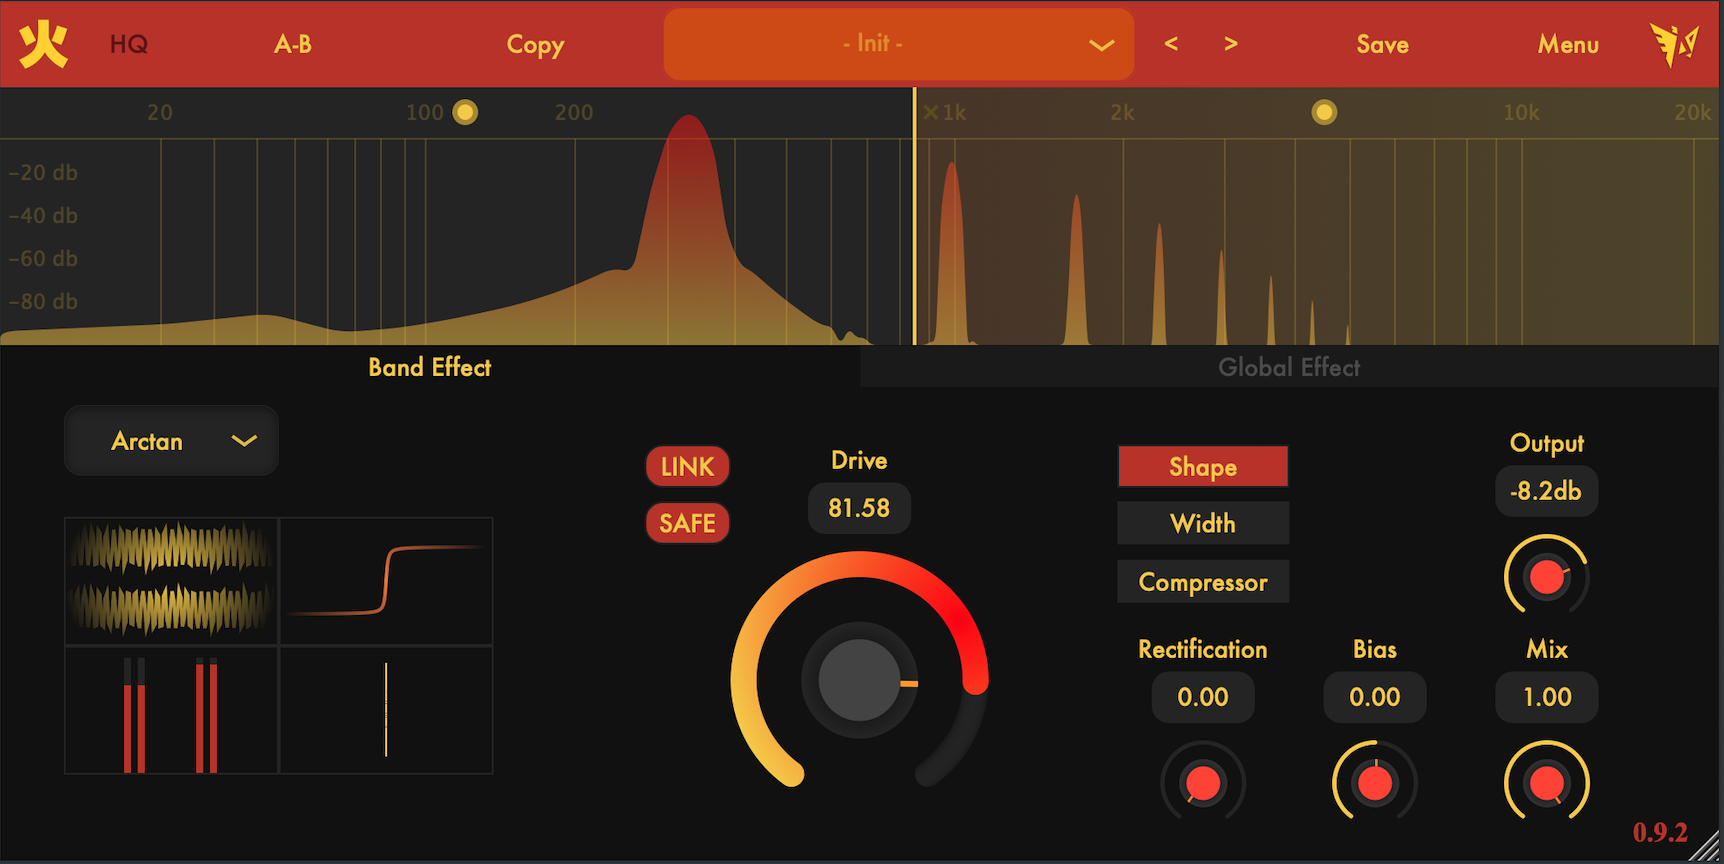
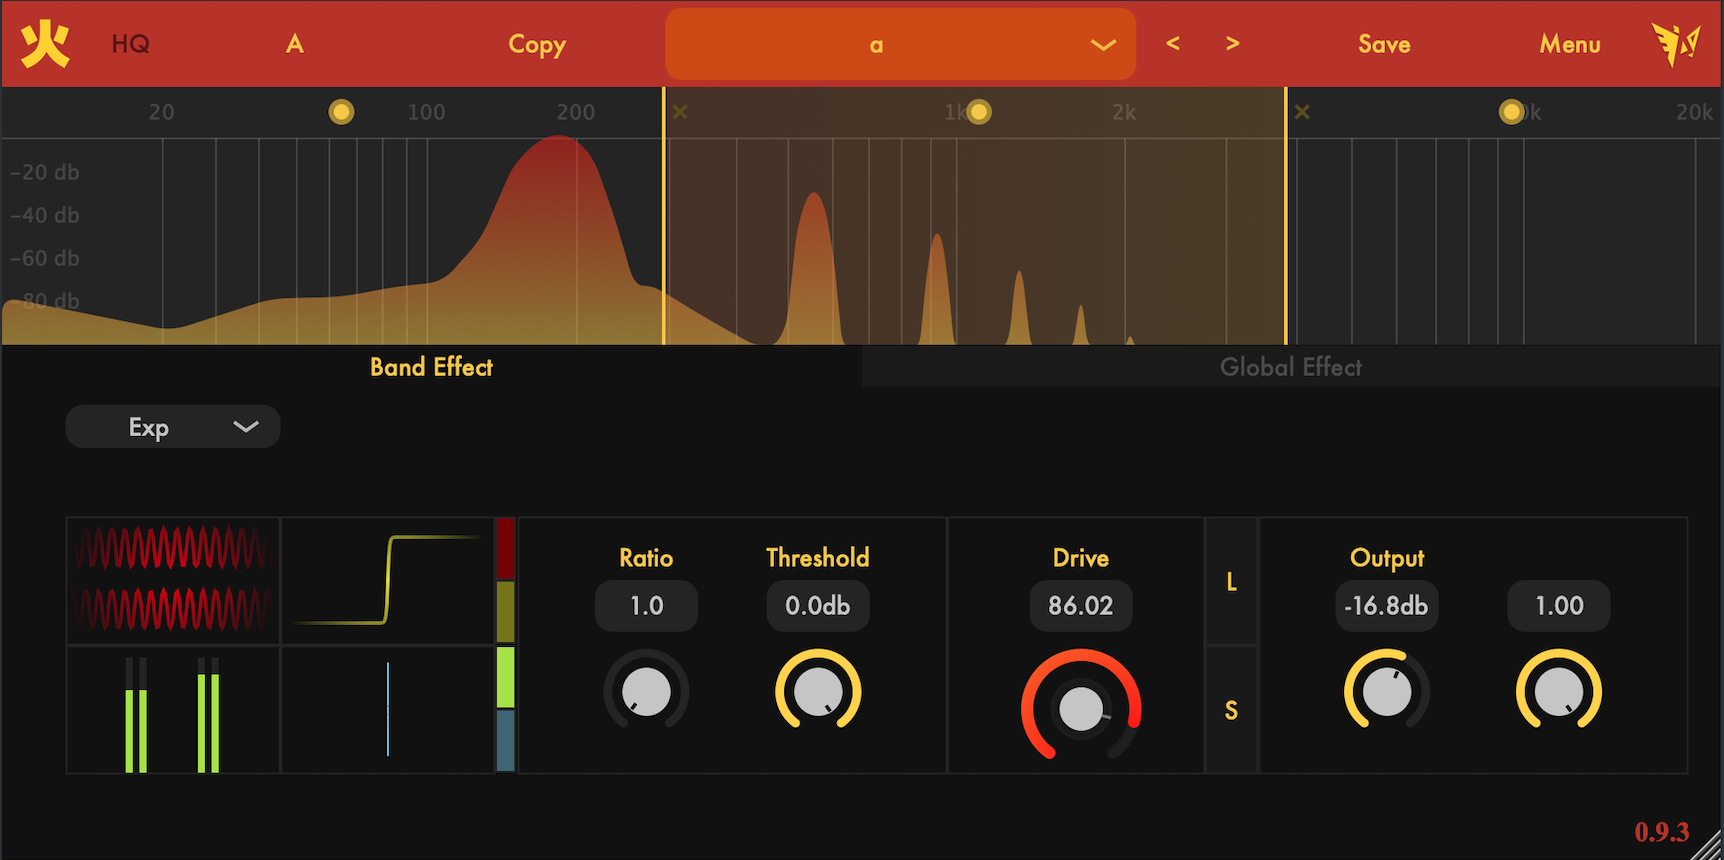
0.9.3 b9 GUI improvement 2
Former-commit-id: 7705fa269eab6fa7e410055a8da4a07cda41c42b

diff --git a/Source/PluginEditor.cpp b/Source/PluginEditor.cpp
@@ -109,6 +109,13 @@ FireAudioProcessorEditor::FireAudioProcessorEditor(FireAudioProcessor &p)
     outputLabel.attachToComponent(&outputKnob1, false);
     outputLabel.setJustificationType(juce::Justification::centred);
     
+    addAndMakeVisible(outputLabelGlobal);
+    outputLabelGlobal.setText("Output", juce::dontSendNotification);
+    outputLabelGlobal.setFont(juce::Font(KNOB_FONT, KNOB_FONT_SIZE, juce::Font::plain));
+    outputLabelGlobal.setColour(juce::Label::textColourId, KNOB_FONT_COLOUR);
+    outputLabelGlobal.attachToComponent(&outputKnob, false);
+    outputLabelGlobal.setJustificationType(juce::Justification::centred);
+    
     outputKnob.setTextValueSuffix("db");
     outputKnob1.setTextValueSuffix("db");
     outputKnob2.setTextValueSuffix("db");
@@ -128,6 +135,13 @@ FireAudioProcessorEditor::FireAudioProcessorEditor(FireAudioProcessor &p)
     mixLabel.setColour(juce::Label::textColourId, KNOB_FONT_COLOUR);
     mixLabel.attachToComponent(&mixKnob1, false);
     mixLabel.setJustificationType(juce::Justification::centred);
+    
+    addAndMakeVisible(mixLabelGlobal);
+    mixLabelGlobal.setText("Mix", juce::dontSendNotification);
+    mixLabelGlobal.setFont(juce::Font(KNOB_FONT, KNOB_FONT_SIZE, juce::Font::plain));
+    mixLabelGlobal.setColour(juce::Label::textColourId, KNOB_FONT_COLOUR);
+    mixLabelGlobal.attachToComponent(&mixKnob, false);
+    mixLabelGlobal.setJustificationType(juce::Justification::centred);
     
     // compressor ratio knob
     setRotarySlider(*compRatioKnob1);
@@ -260,16 +274,16 @@ FireAudioProcessorEditor::FireAudioProcessorEditor(FireAudioProcessor &p)
     hqButton.setButtonText("HQ");
 
     // Linked Button
-    setRoundButton(linkedButton1, LINKED_ID1, "LINK");
-    setRoundButton(linkedButton2, LINKED_ID2, "LINK");
-    setRoundButton(linkedButton3, LINKED_ID3, "LINK");
-    setRoundButton(linkedButton4, LINKED_ID4, "LINK");
+    setFlatButton(linkedButton1, LINKED_ID1, "L");
+    setFlatButton(linkedButton2, LINKED_ID2, "L");
+    setFlatButton(linkedButton3, LINKED_ID3, "L");
+    setFlatButton(linkedButton4, LINKED_ID4, "L");
     
     // safe overload Button
-    setRoundButton(safeButton1, SAFE_ID1, "SAFE");
-    setRoundButton(safeButton2, SAFE_ID2, "SAFE");
-    setRoundButton(safeButton3, SAFE_ID3, "SAFE");
-    setRoundButton(safeButton4, SAFE_ID4, "SAFE");
+    setFlatButton(safeButton1, SAFE_ID1, "S");
+    setFlatButton(safeButton2, SAFE_ID2, "S");
+    setFlatButton(safeButton3, SAFE_ID3, "S");
+    setFlatButton(safeButton4, SAFE_ID4, "S");
   
     // Filter State Buttons
     setRoundButton(filterOffButton, OFF_ID, "OFF");
@@ -567,19 +581,6 @@ void FireAudioProcessorEditor::paint(juce::Graphics &g)
     // background
     g.fillAll(COLOUR7);
 
-    // draw rectangles
-//    juce::Rectangle<int> rectBounds(getWidth() / 3 + 50, part2 + 100, getWidth() / 3 - 100, getWidth() / 3 - 100);
-//    juce::Point<int> offsetPoint(0, 0);
-//    auto shadow = juce::DropShadow(juce::Colours::white, 10, offsetPoint);
-//    shadow.drawForRectangle(g, rectBounds);
-
-    
-    // vertical bounds
-//    juce::ColourGradient grad2(COLOUR6, getWidth() / 3, part2 + getHeight() / 10,
-//                              COLOUR7, getWidth() / 3 - 5, part2 + getHeight() / 10, false);
-//    g.setGradientFill(grad2);
-//    g.fillRect(getWidth() / 3 - 5, part2 + getHeight() / 10.0, 5, getHeight() - part2);
-    
     // title
     g.setColour(COLOUR5);
     g.fillRect(0, 0, getWidth(), part1);
@@ -682,12 +683,12 @@ void FireAudioProcessorEditor::paint(juce::Graphics &g)
 //    g.fillRoundedRectangle(getWidth() / 10 * 9 - KNOBSIZE / 2, PART1 + PART2 + getHeight() / 12, KNOBSIZE, getHeight() - PART1 - PART2 - getHeight() / 10, 10);
     
     if (left) { // if you select the left window, you will see audio wave and distortion function graphs.
-//        spectrum.setVisible(false);
-//        multiband.setVisible(false);
 
-//        // draw layer 2
-//        g.setColour(COLOUR1.withBrightness(0.1));
-//        g.fillRect(getWidth() / 2, part1 + part2 + getHeight() / 4, getWidth() / 2, getHeight() / 4);
+        // draw layer 2
+        g.setColour(COLOUR6);
+        g.drawRect(KNOB_PANEL_1_X, OSC_Y, KNOB_PANEL_1_WIDTH, OSC_HEIGHT * 2);
+        g.drawRect(KNOB_PANEL_2_X, OSC_Y, KNOB_PANEL_2_WIDTH, OSC_HEIGHT * 2);
+        g.drawRect(KNOB_PANEL_3_X, OSC_Y, KNOB_PANEL_1_WIDTH, OSC_HEIGHT * 2);
         
         bool isOscSwitchOn = oscSwitch.getToggleState();
         bool isWidthSwitchOn = widthSwitch.getToggleState();
@@ -776,8 +777,7 @@ void FireAudioProcessorEditor::paint(juce::Graphics &g)
 //        }
         driveLabel.setVisible(true);
         outputLabel.setVisible(true);
-        mixLabel.setVisible(true);
-        
+
         // set other effects invisible
         downSampleKnob.setVisible(false);
         resKnob.setVisible(false);
@@ -866,14 +866,11 @@ void FireAudioProcessorEditor::paint(juce::Graphics &g)
         biasKnob4->setVisible(false);
         
         driveLabel.setVisible(false);
-        outputLabel.setVisible(false);
-        mixLabel.setVisible(true);
         CompRatioLabel.setVisible(false);
         CompThreshLabel.setVisible(false);
         widthLabel.setVisible(false);
         recLabel.setVisible(false);
         biasLabel.setVisible(false);
-        outputLabel.setVisible(true);
 
 //        spectrum.prepareToPaintSpectrum(processor.getFFTSize(), processor.getFFTData());   
     }
@@ -958,32 +955,32 @@ void FireAudioProcessorEditor::resized()
     oscSwitch.setBounds(SWITCH_X, SWITCH_OSC_Y, SWITCH_WIDTH, SWITCH_HEIGHT);
     
     // shape
-    recKnob1->setBounds(REC_X, OSC_Y, scaledKnobSize, scaledKnobSize);
-    recKnob2->setBounds(REC_X, OSC_Y, scaledKnobSize, scaledKnobSize);
-    recKnob3->setBounds(REC_X, OSC_Y, scaledKnobSize, scaledKnobSize);
-    recKnob4->setBounds(REC_X, OSC_Y, scaledKnobSize, scaledKnobSize);
+    recKnob1->setBounds(REC_X, OSC_Y + OSC_HEIGHT / 2.0f, scaledKnobSize, scaledKnobSize);
+    recKnob2->setBounds(REC_X, OSC_Y + OSC_HEIGHT / 2.0f, scaledKnobSize, scaledKnobSize);
+    recKnob3->setBounds(REC_X, OSC_Y + OSC_HEIGHT / 2.0f, scaledKnobSize, scaledKnobSize);
+    recKnob4->setBounds(REC_X, OSC_Y + OSC_HEIGHT / 2.0f, scaledKnobSize, scaledKnobSize);
     
-    biasKnob1->setBounds(BIAS_X, OSC_Y, scaledKnobSize, scaledKnobSize);
-    biasKnob2->setBounds(BIAS_X, OSC_Y, scaledKnobSize, scaledKnobSize);
-    biasKnob3->setBounds(BIAS_X, OSC_Y, scaledKnobSize, scaledKnobSize);
-    biasKnob4->setBounds(BIAS_X, OSC_Y, scaledKnobSize, scaledKnobSize);
+    biasKnob1->setBounds(BIAS_X, OSC_Y + OSC_HEIGHT / 2.0f, scaledKnobSize, scaledKnobSize);
+    biasKnob2->setBounds(BIAS_X, OSC_Y + OSC_HEIGHT / 2.0f, scaledKnobSize, scaledKnobSize);
+    biasKnob3->setBounds(BIAS_X, OSC_Y + OSC_HEIGHT / 2.0f, scaledKnobSize, scaledKnobSize);
+    biasKnob4->setBounds(BIAS_X, OSC_Y + OSC_HEIGHT / 2.0f, scaledKnobSize, scaledKnobSize);
     
     // width
-    widthKnob1->setBounds(WIDTH_X, OSC_Y, scaledKnobSize, scaledKnobSize);
-    widthKnob2->setBounds(WIDTH_X, OSC_Y, scaledKnobSize, scaledKnobSize);
-    widthKnob3->setBounds(WIDTH_X, OSC_Y, scaledKnobSize, scaledKnobSize);
-    widthKnob4->setBounds(WIDTH_X, OSC_Y, scaledKnobSize, scaledKnobSize);
+    widthKnob1->setBounds(WIDTH_X, OSC_Y + OSC_HEIGHT / 2.0f, scaledKnobSize, scaledKnobSize);
+    widthKnob2->setBounds(WIDTH_X, OSC_Y + OSC_HEIGHT / 2.0f, scaledKnobSize, scaledKnobSize);
+    widthKnob3->setBounds(WIDTH_X, OSC_Y + OSC_HEIGHT / 2.0f, scaledKnobSize, scaledKnobSize);
+    widthKnob4->setBounds(WIDTH_X, OSC_Y + OSC_HEIGHT / 2.0f, scaledKnobSize, scaledKnobSize);
 
     // compressor
-    compRatioKnob1->setBounds(COMP_RATIO_X, OSC_Y, scaledKnobSize, scaledKnobSize);
-    compRatioKnob2->setBounds(COMP_RATIO_X, OSC_Y, scaledKnobSize, scaledKnobSize);
-    compRatioKnob3->setBounds(COMP_RATIO_X, OSC_Y, scaledKnobSize, scaledKnobSize);
-    compRatioKnob4->setBounds(COMP_RATIO_X, OSC_Y, scaledKnobSize, scaledKnobSize);
+    compRatioKnob1->setBounds(COMP_RATIO_X, OSC_Y + OSC_HEIGHT / 2.0f, scaledKnobSize, scaledKnobSize);
+    compRatioKnob2->setBounds(COMP_RATIO_X, OSC_Y + OSC_HEIGHT / 2.0f, scaledKnobSize, scaledKnobSize);
+    compRatioKnob3->setBounds(COMP_RATIO_X, OSC_Y + OSC_HEIGHT / 2.0f, scaledKnobSize, scaledKnobSize);
+    compRatioKnob4->setBounds(COMP_RATIO_X, OSC_Y + OSC_HEIGHT / 2.0f, scaledKnobSize, scaledKnobSize);
 
-    compThreshKnob1->setBounds(COMP_THRESH_X, OSC_Y, scaledKnobSize, scaledKnobSize);
-    compThreshKnob2->setBounds(COMP_THRESH_X, OSC_Y, scaledKnobSize, scaledKnobSize);
-    compThreshKnob3->setBounds(COMP_THRESH_X, OSC_Y, scaledKnobSize, scaledKnobSize);
-    compThreshKnob4->setBounds(COMP_THRESH_X, OSC_Y, scaledKnobSize, scaledKnobSize);
+    compThreshKnob1->setBounds(COMP_THRESH_X, OSC_Y + OSC_HEIGHT / 2.0f, scaledKnobSize, scaledKnobSize);
+    compThreshKnob2->setBounds(COMP_THRESH_X, OSC_Y + OSC_HEIGHT / 2.0f, scaledKnobSize, scaledKnobSize);
+    compThreshKnob3->setBounds(COMP_THRESH_X, OSC_Y + OSC_HEIGHT / 2.0f, scaledKnobSize, scaledKnobSize);
+    compThreshKnob4->setBounds(COMP_THRESH_X, OSC_Y + OSC_HEIGHT / 2.0f, scaledKnobSize, scaledKnobSize);
 
     //colorKnob.setBounds(startX * 1 + scaledKnobSize * 1.2, secondLineY, scaledKnobSize, scaledKnobSize);
     downSampleKnob.setBounds(DOWNSAMPLE_X, firstPartY, scaledKnobSize, scaledKnobSize);
@@ -991,29 +988,29 @@ void FireAudioProcessorEditor::resized()
     cutoffKnob.setBounds(CUTOFF_X, firstPartY, scaledKnobSize, scaledKnobSize);
     resKnob.setBounds(RES_X, firstPartY, scaledKnobSize, scaledKnobSize);
     
-    mixKnob1.setBounds(MIX_X, secondPartY, scaledKnobSize, scaledKnobSize);
-    mixKnob2.setBounds(MIX_X, secondPartY, scaledKnobSize, scaledKnobSize);
-    mixKnob3.setBounds(MIX_X, secondPartY, scaledKnobSize, scaledKnobSize);
-    mixKnob4.setBounds(MIX_X, secondPartY, scaledKnobSize, scaledKnobSize);
-    mixKnob.setBounds(MIX_X, secondPartY, scaledKnobSize, scaledKnobSize);
+    mixKnob1.setBounds(MIX_X, OSC_Y + OSC_HEIGHT / 2.0f, scaledKnobSize, scaledKnobSize);
+    mixKnob2.setBounds(MIX_X, OSC_Y + OSC_HEIGHT / 2.0f, scaledKnobSize, scaledKnobSize);
+    mixKnob3.setBounds(MIX_X, OSC_Y + OSC_HEIGHT / 2.0f, scaledKnobSize, scaledKnobSize);
+    mixKnob4.setBounds(MIX_X, OSC_Y + OSC_HEIGHT / 2.0f, scaledKnobSize, scaledKnobSize);
+    mixKnob.setBounds(MIX_X_G, secondPartY, scaledKnobSize, scaledKnobSize);
     
-    outputKnob1.setBounds(OUTPUT_X, firstPartY, scaledKnobSize, scaledKnobSize);
-    outputKnob2.setBounds(OUTPUT_X, firstPartY, scaledKnobSize, scaledKnobSize);
-    outputKnob3.setBounds(OUTPUT_X, firstPartY, scaledKnobSize, scaledKnobSize);
-    outputKnob4.setBounds(OUTPUT_X, firstPartY, scaledKnobSize, scaledKnobSize);
-    outputKnob.setBounds(OUTPUT_X, firstPartY, scaledKnobSize, scaledKnobSize);
+    outputKnob1.setBounds(OUTPUT_X, OSC_Y + OSC_HEIGHT / 2.0f, scaledKnobSize, scaledKnobSize);
+    outputKnob2.setBounds(OUTPUT_X, OSC_Y + OSC_HEIGHT / 2.0f, scaledKnobSize, scaledKnobSize);
+    outputKnob3.setBounds(OUTPUT_X, OSC_Y + OSC_HEIGHT / 2.0f, scaledKnobSize, scaledKnobSize);
+    outputKnob4.setBounds(OUTPUT_X, OSC_Y + OSC_HEIGHT / 2.0f, scaledKnobSize, scaledKnobSize);
+    outputKnob.setBounds(OUTPUT_X_G, firstPartY, scaledKnobSize, scaledKnobSize);
     
     // buttons
     hqButton.setBounds(getHeight() / 10, 0, getHeight() / 10, getHeight() / 10);
-    linkedButton1.setBounds(BUTTON_X, SWITCH_SHAPE_Y, BUTTON_WIDTH, BUTTON_HEIGHT);
-    linkedButton2.setBounds(BUTTON_X, SWITCH_SHAPE_Y, BUTTON_WIDTH, BUTTON_HEIGHT);
-    linkedButton3.setBounds(BUTTON_X, SWITCH_SHAPE_Y, BUTTON_WIDTH, BUTTON_HEIGHT);
-    linkedButton4.setBounds(BUTTON_X, SWITCH_SHAPE_Y, BUTTON_WIDTH, BUTTON_HEIGHT);
+    linkedButton1.setBounds(BUTTON_X, OSC_Y, BUTTON_WIDTH, OSC_HEIGHT);
+    linkedButton2.setBounds(BUTTON_X, OSC_Y, BUTTON_WIDTH, OSC_HEIGHT);
+    linkedButton3.setBounds(BUTTON_X, OSC_Y, BUTTON_WIDTH, OSC_HEIGHT);
+    linkedButton4.setBounds(BUTTON_X, OSC_Y, BUTTON_WIDTH, OSC_HEIGHT);
     
-    safeButton1.setBounds(BUTTON_X, SWITCH_WIDTH_Y, BUTTON_WIDTH, BUTTON_HEIGHT);
-    safeButton2.setBounds(BUTTON_X, SWITCH_WIDTH_Y, BUTTON_WIDTH, BUTTON_HEIGHT);
-    safeButton3.setBounds(BUTTON_X, SWITCH_WIDTH_Y, BUTTON_WIDTH, BUTTON_HEIGHT);
-    safeButton4.setBounds(BUTTON_X, SWITCH_WIDTH_Y, BUTTON_WIDTH, BUTTON_HEIGHT);
+    safeButton1.setBounds(BUTTON_X, OSC_Y + OSC_HEIGHT, BUTTON_WIDTH, OSC_HEIGHT);
+    safeButton2.setBounds(BUTTON_X, OSC_Y + OSC_HEIGHT, BUTTON_WIDTH, OSC_HEIGHT);
+    safeButton3.setBounds(BUTTON_X, OSC_Y + OSC_HEIGHT, BUTTON_WIDTH, OSC_HEIGHT);
+    safeButton4.setBounds(BUTTON_X, OSC_Y + OSC_HEIGHT, BUTTON_WIDTH, OSC_HEIGHT);
     
     float windowHeight = getHeight() / 20;
     windowLeftButton.setBounds(0, secondShadowY, getWidth() / 2, windowHeight);
@@ -1104,7 +1101,7 @@ void FireAudioProcessorEditor::timerCallback()
         driveKnob2.repaint();
         driveKnob3.repaint();
         driveKnob4.repaint();
-//        repaint();
+        repaint();
     }
 }
 
@@ -1392,7 +1389,21 @@ void FireAudioProcessorEditor::setRoundButton(juce::TextButton& button, juce::St
         button.setButtonText(buttonName);
         button.setLookAndFeel(&roundedButtonLnf);
     }
+}
 
+void FireAudioProcessorEditor::setFlatButton(juce::TextButton& button, juce::String paramId, juce::String buttonName)
+{
+    addAndMakeVisible(button);
+    button.setClickingTogglesState(true);
+    bool state = *processor.treeState.getRawParameterValue(paramId);
+    button.setToggleState(state, juce::dontSendNotification);
+    button.setColour(juce::TextButton::buttonColourId, COLOUR7);
+    button.setColour(juce::TextButton::buttonOnColourId, COLOUR6.withBrightness(0.1f));
+    button.setColour(juce::ComboBox::outlineColourId, COLOUR6);
+    button.setColour(juce::TextButton::textColourOnId, COLOUR1);
+    button.setColour(juce::TextButton::textColourOffId, COLOUR7.withBrightness(0.8f));
+    button.setButtonText(buttonName);
+    button.setLookAndFeel(&flatButtonLnf);
 }
 
 void FireAudioProcessorEditor::setDistortionGraph(juce::String modeId, juce::String driveId, 

diff --git a/Source/GUI/InterfaceDefines.h b/Source/GUI/InterfaceDefines.h
@@ -199,7 +199,7 @@
 #define TEXTBOX_HEIGHT      30
 #define KNOBSIZE            100
 #define SCALED_KNOBSIZE     static_cast<int>(knobSize * scale)
-#define DRIVE_SIZE          SCALED_KNOBSIZE * 2
+
 
 // Define Position
 #define INIT_WIDTH          1000.0f
@@ -207,6 +207,13 @@
 
 #define PART1               getHeight() / 10.0f
 #define PART2               PART1 * 3.0f
+
+#define KNOB_PANEL_1_X      SWITCH_X + SWITCH_WIDTH
+#define KNOB_PANEL_2_X      SWITCH_X + SWITCH_WIDTH + KNOB_PANEL_1_WIDTH
+#define KNOB_PANEL_3_X      SWITCH_X + SWITCH_WIDTH + KNOB_PANEL_1_WIDTH + OSC_HEIGHT * 2 + BUTTON_WIDTH
+
+#define KNOB_PANEL_1_WIDTH  getWidth() / 4.0f
+#define KNOB_PANEL_2_WIDTH  OSC_HEIGHT * 2
 
 #define OSC_X               getWidth() / 10.0f - OSC_WIDTH / 2.0f
 #define OSC_Y               PART1 + PART2 + getHeight() / 5.0f
@@ -233,27 +240,32 @@
 #define SPEC_WIDTH          getWidth()
 #define SPEC_HEIGHT         getHeight() / 10.0f * 3.0f
 
-#define DRIVE_X             getWidth() / 3.0f * 2.0f - SCALED_KNOBSIZE
-#define DRIVE_Y             secondShadowY + (getHeight() - secondShadowY) / 2.0f - SCALED_KNOBSIZE / 2.0f - 20.0f
-#define REC_X               OSC_X + OSC_WIDTH * 2 + SWITCH_WIDTH
-#define BIAS_X              OSC_X + OSC_WIDTH * 2 + SWITCH_WIDTH + SCALED_KNOBSIZE
-#define WIDTH_X             OSC_X + OSC_WIDTH * 2 + SWITCH_WIDTH
-#define OUTPUT_X            startX * 9.0f - SCALED_KNOBSIZE / 2.0f
-#define COMP_RATIO_X        OSC_X + OSC_WIDTH * 2 + SWITCH_WIDTH
-#define COMP_THRESH_X       OSC_X + OSC_WIDTH * 2 + SWITCH_WIDTH + SCALED_KNOBSIZE
+#define DRIVE_X             KNOB_PANEL_2_X + OSC_HEIGHT / 4.0f
+#define DRIVE_Y             OSC_Y + OSC_HEIGHT / 2.0f
+#define DRIVE_SIZE          SCALED_KNOBSIZE * 1.2f
+
+#define REC_X               KNOB_PANEL_1_X + SCALED_KNOBSIZE / 4.0f
+#define BIAS_X              KNOB_PANEL_1_X + SCALED_KNOBSIZE + SCALED_KNOBSIZE / 4.0f
+#define WIDTH_X             KNOB_PANEL_1_X + SCALED_KNOBSIZE / 4.0f
+#define COMP_RATIO_X        KNOB_PANEL_1_X + SCALED_KNOBSIZE / 4.0f
+#define COMP_THRESH_X       KNOB_PANEL_1_X + SCALED_KNOBSIZE + SCALED_KNOBSIZE / 4.0f
+#define OUTPUT_X            KNOB_PANEL_3_X + SCALED_KNOBSIZE / 4.0f
+#define MIX_X               KNOB_PANEL_3_X + SCALED_KNOBSIZE + SCALED_KNOBSIZE / 4.0f
+
 #define CUTOFF_X            startX * 4.5f - SCALED_KNOBSIZE / 2.0f
 #define RES_X               startX * 6.0f - SCALED_KNOBSIZE / 2.0f
 #define DOWNSAMPLE_X        startX * 7.5f - SCALED_KNOBSIZE / 2.0f
 #define COLOR_X             startX * 7.5f - SCALED_KNOBSIZE / 2.0f
 #define FILTER_STATE_X      startX * 4.5f - SCALED_KNOBSIZE / 4.0f
 #define FILTER_TYPE_X       startX * 6.0f - SCALED_KNOBSIZE / 4.0f
-#define MIX_X               startX * 9.0f - SCALED_KNOBSIZE / 2.0f
+#define OUTPUT_X_G          startX * 9.0f - SCALED_KNOBSIZE / 2.0f
+#define MIX_X_G             startX * 9.0f - SCALED_KNOBSIZE / 2.0f
 
-#define VU_METER_WIDTH         getWidth() / 10.0f
-#define VU_METER_HEIGHT        getHeight() / 10.0f * 9.0f
-#define VU_METER_Y             getHeight() / 10.0f
-#define VU_METER_X_1           getWidth() / 3.0f - VU_METER_WIDTH / 2.0f
-#define VU_METER_X_2           getWidth() / 3.0f * 2.0f - VU_METER_WIDTH / 2.0f
+#define VU_METER_WIDTH      getWidth() / 10.0f
+#define VU_METER_HEIGHT     getHeight() / 10.0f * 9.0f
+#define VU_METER_Y          getHeight() / 10.0f
+#define VU_METER_X_1        getWidth() / 3.0f - VU_METER_WIDTH / 2.0f
+#define VU_METER_X_2        getWidth() / 3.0f * 2.0f - VU_METER_WIDTH / 2.0f
 
 
 // Switches
@@ -267,9 +279,8 @@
 #define SWITCH_WIDTH_Y      OSC_Y + OSC_HEIGHT / 2.0f * 3.0f
 
 // Buttons
-#define BUTTON_WIDTH        scaledKnobSize / 2.0f
-#define BUTTON_HEIGHT       0.05f * getHeight()
-#define BUTTON_X            DRIVE_X + DRIVE_SIZE / 2.0f + getWidth() / 10.0f
+#define BUTTON_X            SWITCH_X + SWITCH_WIDTH + KNOB_PANEL_1_WIDTH + OSC_HEIGHT * 2
+#define BUTTON_WIDTH        OSC_WIDTH / 4.0f
 
 // Define Color
 #define COLOUR0             juce::Colour(244, 244, 210)

diff --git a/Source/PluginEditor.h b/Source/PluginEditor.h
@@ -142,8 +142,10 @@ private:
         widthLabel,
         downSampleLabel,
         outputLabel,
+        outputLabelGlobal,
         recLabel,
         mixLabel,
+        mixLabelGlobal,
         cutoffLabel,
         resLabel,
         linkedLabel,
@@ -206,6 +208,7 @@ private:
     void setRotarySlider(juce::Slider& slider);
     void setLinearSlider(juce::Slider& slider);
     void setRoundButton(juce::TextButton& button, juce::String paramId, juce::String buttonName);
+    void setFlatButton(juce::TextButton& button, juce::String paramId, juce::String buttonName);
     void changeSliderState(juce::ComboBox *combobox);
     void updateFreqArray();
     void setSliderState(FireAudioProcessor* processor, juce::Slider& slider, juce::String paramId, float &tempValue);

diff --git a/JuceLibraryCode/JucePluginDefines.h b/JuceLibraryCode/JucePluginDefines.h
@@ -74,13 +74,13 @@
  #define JucePlugin_EditorRequiresKeyboardFocus  0
 #endif
 #ifndef  JucePlugin_Version
- #define JucePlugin_Version                0.9.3 b8
+ #define JucePlugin_Version                0.9.3 b9
 #endif
 #ifndef  JucePlugin_VersionCode
  #define JucePlugin_VersionCode            0x903
 #endif
 #ifndef  JucePlugin_VersionString
- #define JucePlugin_VersionString          "0.9.3 b8"
+ #define JucePlugin_VersionString          "0.9.3 b9"
 #endif
 #ifndef  JucePlugin_VSTUniqueID
  #define JucePlugin_VSTUniqueID            JucePlugin_PluginCode

diff --git a/JuceLibraryCode/JuceHeader.h b/JuceLibraryCode/JuceHeader.h
@@ -47,7 +47,7 @@ namespace ProjectInfo
 {
     const char* const  projectName    = "Fire";
     const char* const  companyName    = "";
-    const char* const  versionString  = "0.9.3 b8";
+    const char* const  versionString  = "0.9.3 b9";
     const int          versionNumber  = 0x903;
 }
 #endif
